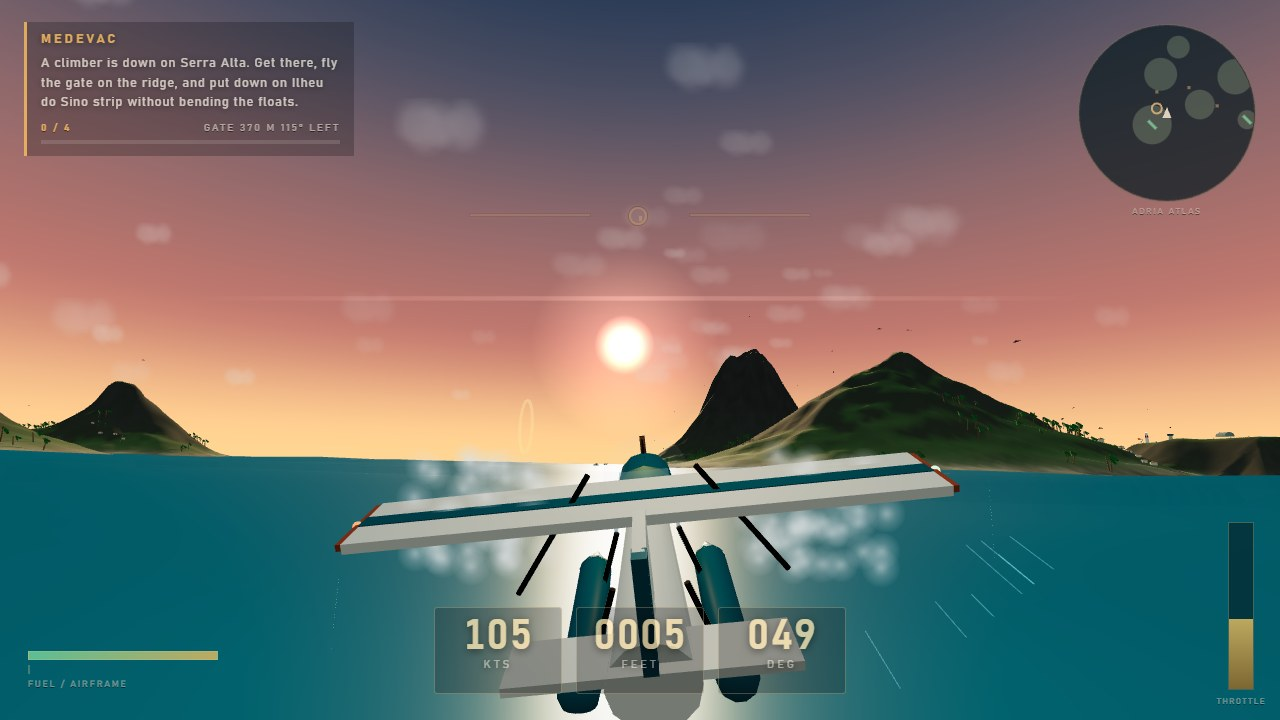
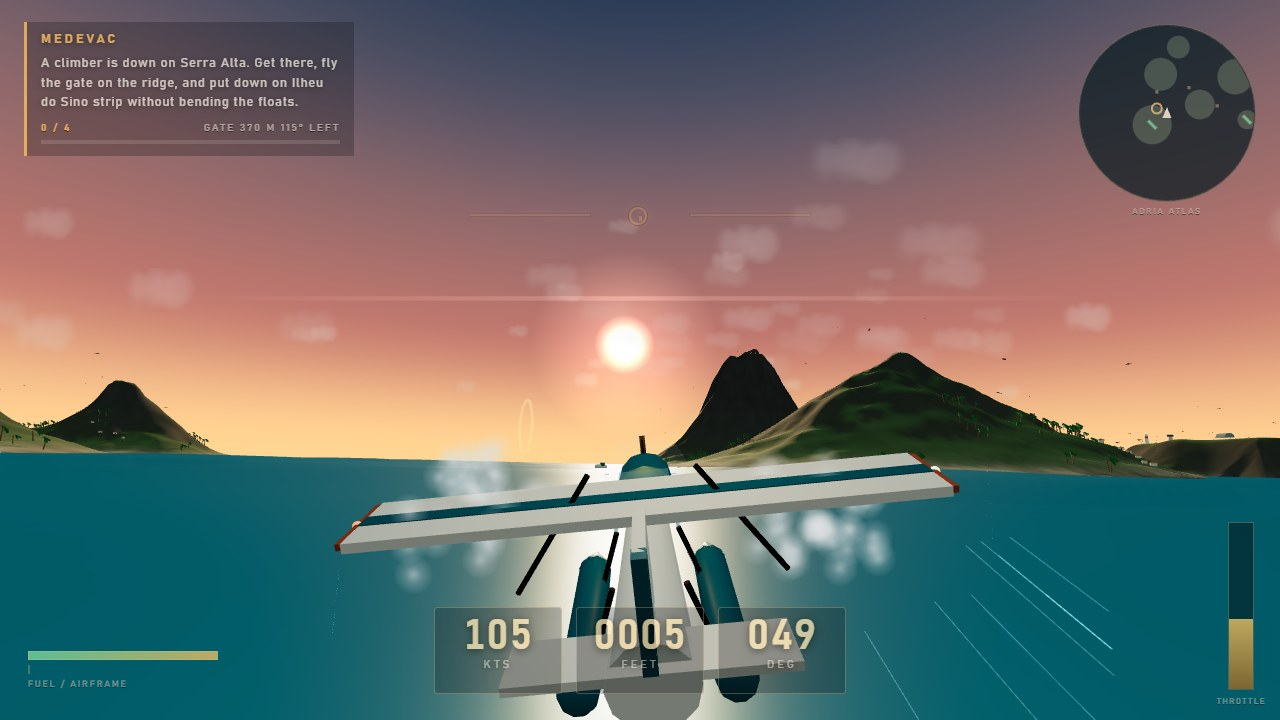
Shoot the caldera from the chase camera so the airframe is in the frame

diff --git a/game/src/shots.js b/game/src/shots.js
@@ -81,6 +81,7 @@ export const SHOTS = {
     const normal = new THREE.Vector3(0, 0, 1).applyQuaternion(gate.ring.quaternion);
     const across = new THREE.Vector3(normal.z, 0, -normal.x).normalize();
     const pose = aim(from, gate.position.clone().add(new THREE.Vector3(0, 34, 0)).addScaledVector(across, -45), { roll: 0.18, pitch: -0.04 });
+    // Chase, not glass: the caldera wants the airframe in it as well as the ash.
     const bursts = [];
     const flashes = [];
     const forward = new THREE.Vector3(0, 0, -1).applyQuaternion(pose.quaternion);
@@ -106,7 +107,7 @@ export const SHOTS = {
       puff.y += 1.4 + i * 0.8;
       trail.push({ at: puff, size: 2.2 + i * 0.75 });
     }
-    return { ...pose, speed: 84, throttle: 0.95, camera: 'cockpit', kind: 'survey', gate, hull: 44, bursts, flashes, trail };
+    return { ...pose, speed: 84, throttle: 0.95, camera: 'chase', kind: 'survey', gate, hull: 44, bursts, flashes, trail, zoom: 1.9, vapour: 0.8, rim: true };
   },
 
   // The strait: over the span with a course gate hanging past it, so the landmark and the
